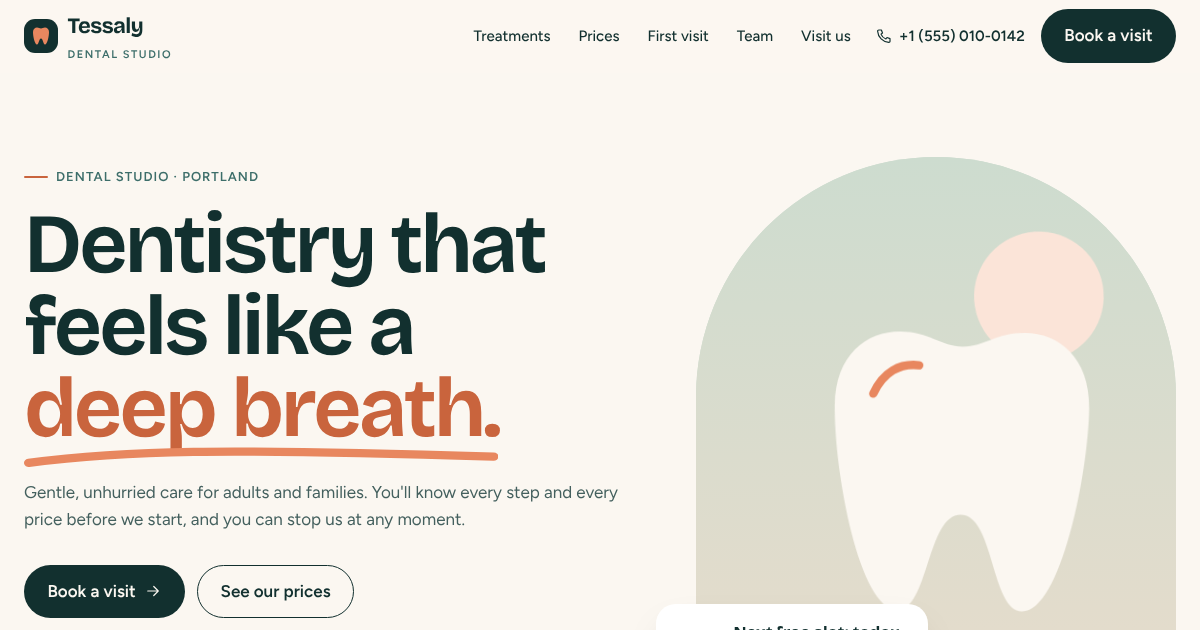
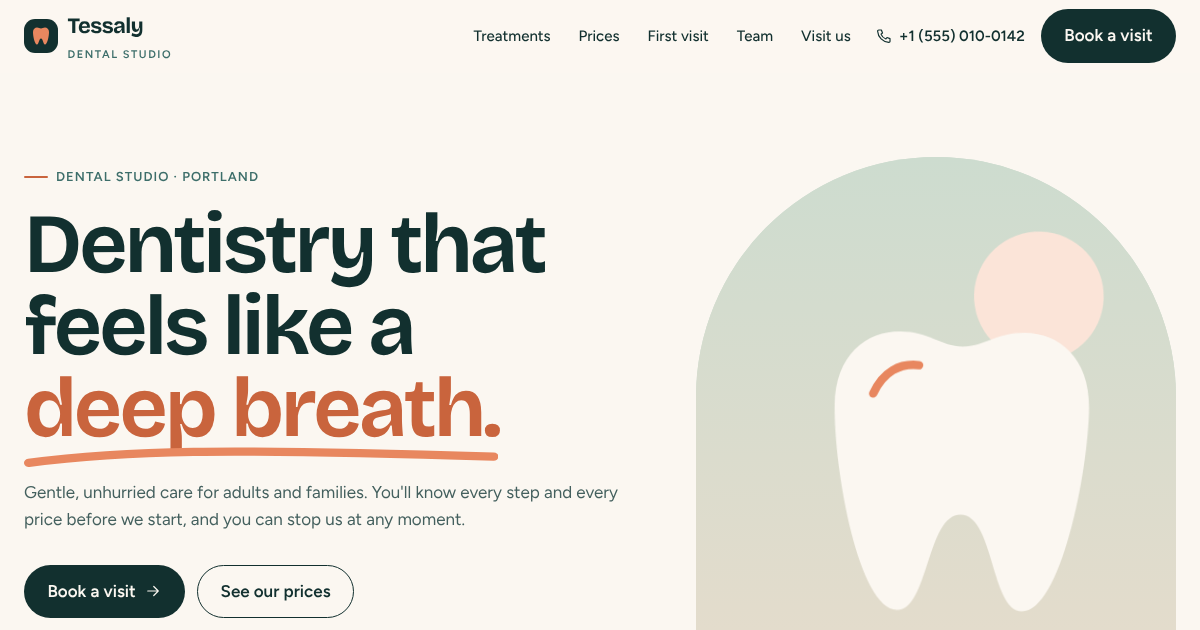
concept(dental-clinic): remove hero availability card
Claude-Session: https://claude.ai/code/session_016BY8ZbZJzD1BD9GkrzMTL1

Changed region(s): [[0.555, 0.9349, 0.7708, 1.0]]

diff --git a/src/concepts/dental-clinic/styles.css b/src/concepts/dental-clinic/styles.css
@@ -335,38 +335,6 @@
     transform: translateY(-14px) rotate(2deg);
   }
 }
-.c-dental .hero-card {
-  position: absolute;
-  left: -2.5rem;
-  bottom: 2.5rem;
-  display: flex;
-  gap: 0.85rem;
-  align-items: center;
-  padding: 1rem 1.25rem;
-  border-radius: var(--radius);
-  background: var(--surface);
-  box-shadow: 0 18px 40px -18px rgb(18 48 47 / 0.35);
-  max-width: 17rem;
-}
-.c-dental .hero-card .dot {
-  flex: none;
-  width: 2.75rem;
-  height: 2.75rem;
-  border-radius: 999px;
-  display: grid;
-  place-items: center;
-  background: var(--accent-soft);
-  color: var(--accent);
-}
-.c-dental .hero-card strong {
-  display: block;
-  font-family: var(--font-display);
-  font-size: 1.05rem;
-}
-.c-dental .hero-card span {
-  font-size: 0.875rem;
-  color: var(--ink-soft);
-}
 
 /* needs */
 .c-dental .needs {
@@ -1052,10 +1020,6 @@
     max-width: 22rem;
     aspect-ratio: 1 / 1;
   }
-  .c-dental .hero-card {
-    left: 0.5rem;
-    bottom: 1rem;
-  }
   .c-dental .calm-list {
     grid-template-columns: 1fr;
   }
@@ -1090,10 +1054,6 @@
   }
   .c-dental .price-list {
     padding-inline: 1.25rem;
-  }
-  .c-dental .hero-card {
-    max-width: 16.5rem;
-    padding: 0.85rem 1rem;
   }
 }
 

diff --git a/docs/dental-clinic/STATUS.md b/docs/dental-clinic/STATUS.md
@@ -4,6 +4,7 @@ slug: dental-clinic
 - [x] 1 Research  (2026-11-25 22:35) – brief written; brand renamed from "Brightwell" (already used by a Framer template)
 - [x] 2 Build     (2026-11-25 22:45) – single page, 11 sections, booking widget (demo only), tokens in styles.css
 - [x] 3 QA        (2026-11-25 22:50) – `npm run qa` clean at 320/375/768/1440; fixed 5 contrast issues (added --accent-ink) and 2 label mismatches; OG image generated
+- Revision (2026-11-25 22:55): removed the "Next free slot: today" hero card at Idrishan's request
 
 ## Notes for Idrishan
 - Manual test run of the whole pipeline, done in the chat session.
